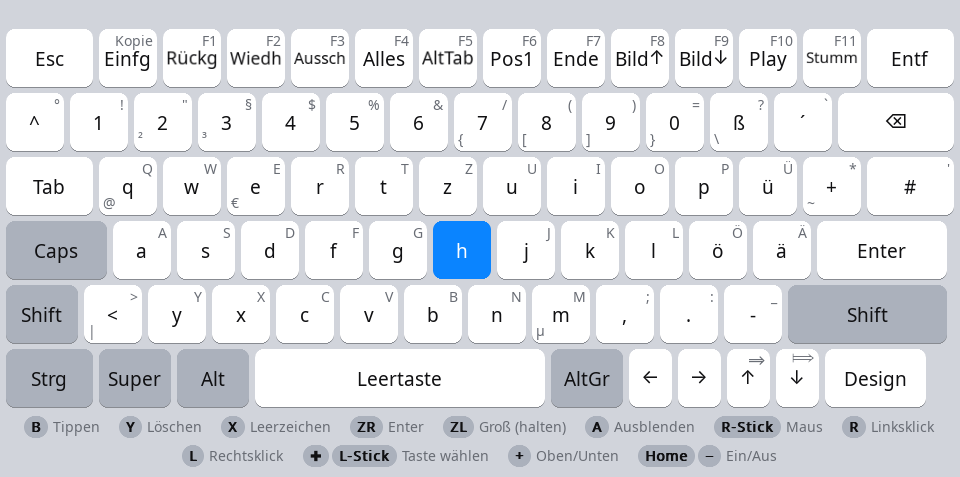
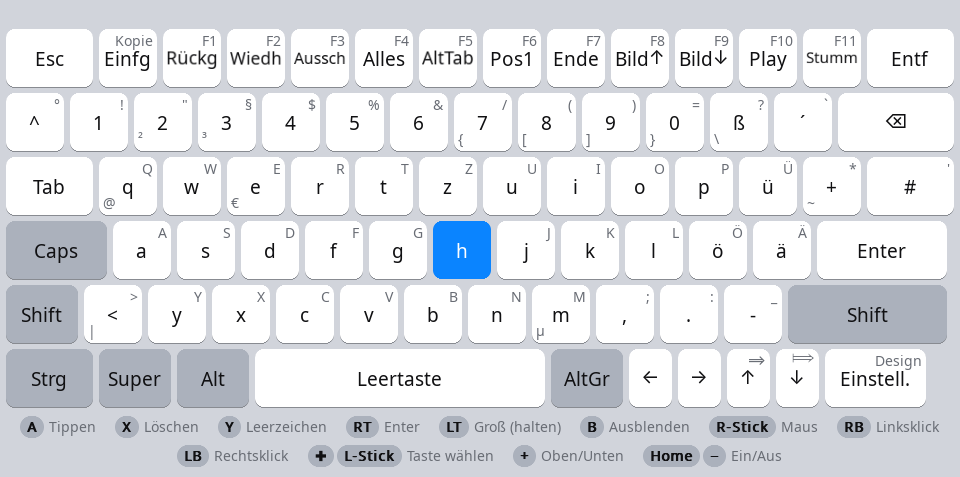
docs: refresh screenshots (Settings key, 8BitDo labels)

Changed region(s): [[0.0, 0.8805, 1.0, 0.9979], [0.875, 0.7338, 0.9688, 0.8218]]

diff --git a/README.md b/README.md
@@ -51,7 +51,7 @@ a button legend, controller profiles, a German layout and a one-line install.
 * **One-line install** without root on most desktops, autostart included,
   show/hide combo (Guide + Select) on by default.
 
-<img src="docs/light-de.png" width="640" alt="German layout with umlauts and AltGr symbols, legend in German with the button names of an 8BitDo controller: B Tippen, Y Löschen, X Leerzeichen, ZR Enter, ZL Groß (halten)">
+<img src="docs/light-de.png" width="640" alt="German layout with umlauts and AltGr symbols, legend in German with the button names of an 8BitDo controller: A Tippen, X Löschen, Y Leerzeichen, RT Enter, LT Groß (halten)">
 
 ## Install
 
